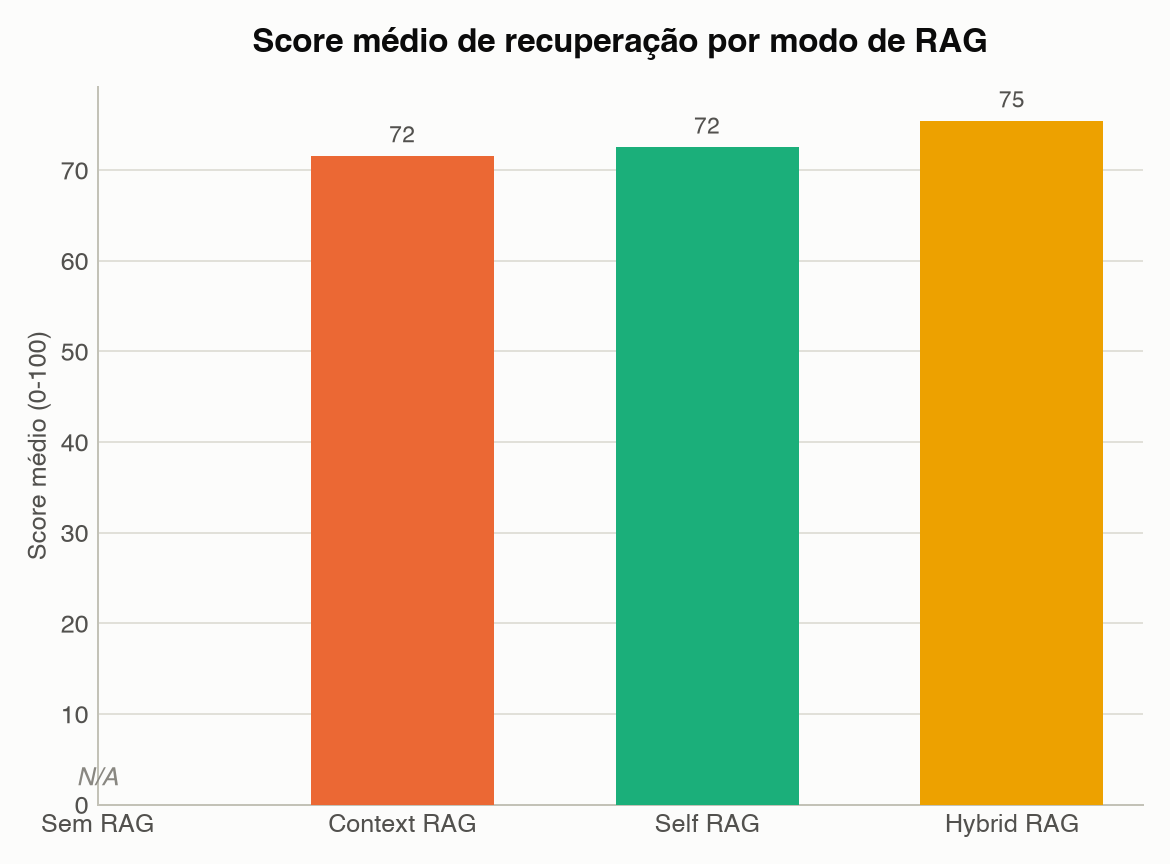
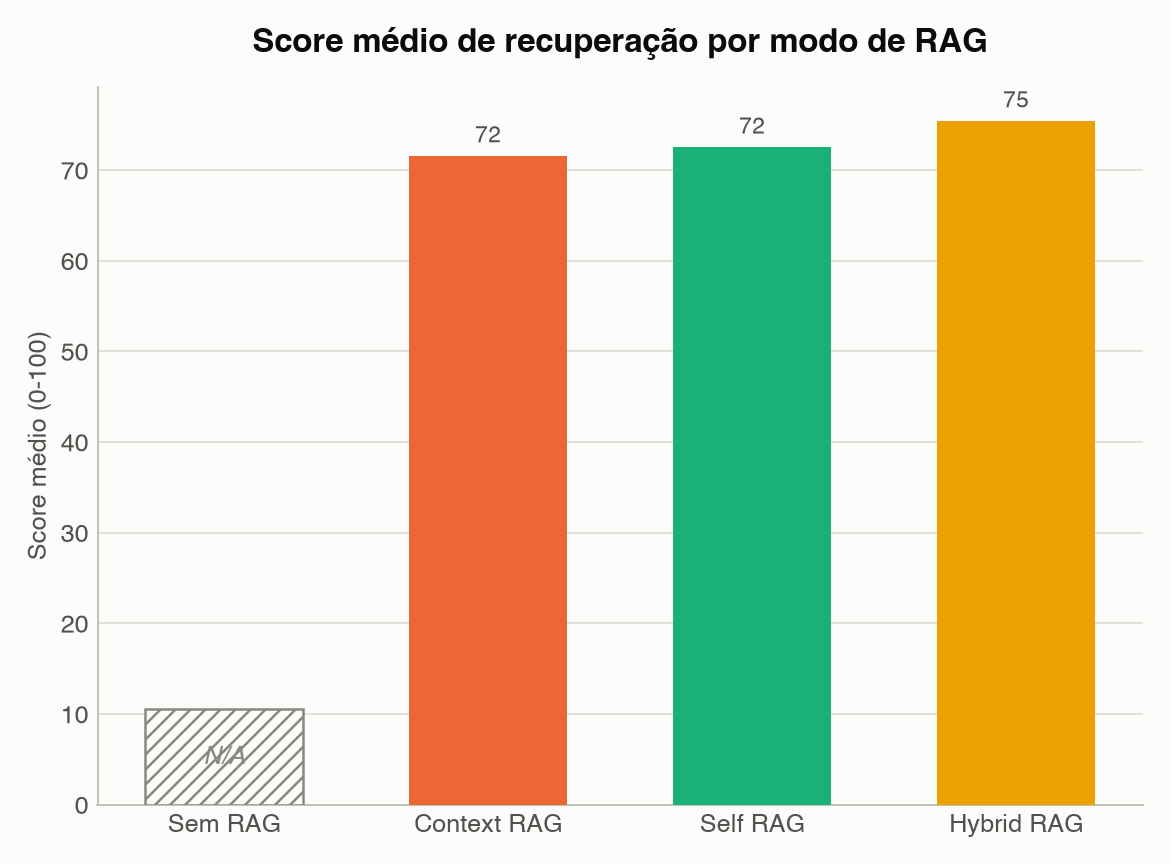
Replace floating N/A text with a hatched placeholder bar
The "Sem RAG" N/A annotation sat right at the baseline, crowding the "0"
tick and the "Sem RAG" x-label when the image was viewed small or
cropped - looked like overlapping/glitched text. Now it's a low hatched
bar with N/A centered inside it, clearly set apart from the axis at any
zoom level.

diff --git a/scripts/generate_charts.py b/scripts/generate_charts.py
@@ -341,17 +341,22 @@ def main():
 
     # score médio de recuperação - "Sem RAG" nunca busca contexto, então a
     # métrica não se aplica (None nos dados). Antes isso virava uma barra de
-    # altura 0 rotulada "0.0", como se a IA tivesse buscado algo irrelevante;
-    # agora fica sem barra, com "N/A" escrito no lugar, pra não confundir "não
-    # se aplica" com "buscou e a relevância foi zero".
+    # altura 0 rotulada "0.0", como se a IA tivesse buscado algo irrelevante.
+    # Em vez de um texto solto colado no eixo (que amontoa com o "0" e o rótulo
+    # "Sem RAG" quando a imagem é vista pequena/cortada), desenha uma barra
+    # tracejada (hatch) baixa e clara com "N/A" centralizado dentro dela -
+    # visualmente inconfundível com uma barra de valor real, em qualquer zoom.
     fig, ax = new_fig(6.5, 4.8)
     xs = list(range(len(RAG_ORDER)))
+    real_scores = [by_mode[m]["avg_retrieval_score"] for m in RAG_ORDER if by_mode[m]["avg_retrieval_score"] is not None]
+    placeholder_h = max(real_scores) * 0.14 if real_scores else 10
     for i, m in enumerate(RAG_ORDER):
         score = by_mode[m]["avg_retrieval_score"]
         if score is None:
-            ax.annotate("N/A", xy=(i, 0), xytext=(0, 6), textcoords="offset points",
-                        ha="center", va="bottom", fontsize=10, color=INK_MUTED,
-                        style="italic")
+            ax.bar([i], [placeholder_h], width=0.6, facecolor=SURFACE,
+                   edgecolor=INK_MUTED, linewidth=1, hatch="////", zorder=3)
+            ax.annotate("N/A", xy=(i, placeholder_h / 2), ha="center", va="center",
+                        fontsize=10, color=INK_MUTED, style="italic", zorder=4)
             continue
         bar = ax.bar([i], [score], width=0.6, color=RAG_COLORS[m], zorder=3)
         bar_labels(ax, bar)
